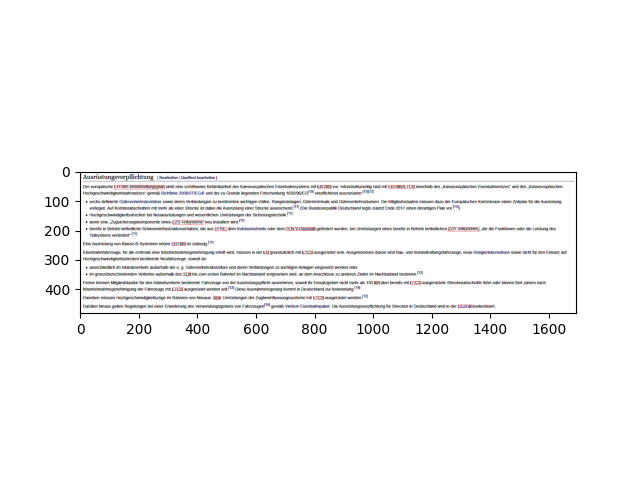
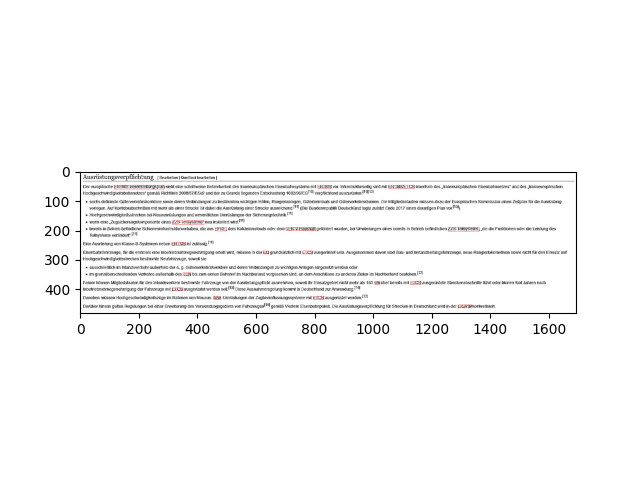
changed pre-processing to cvs; added binarization

diff --git a/src/PreProcessing.py b/src/PreProcessing.py
@@ -1,19 +1,14 @@
-from PIL import Image, ImageEnhance
+import cv2
 
 def enhance(image_path, edited_image_path):
 
     # Open the image and save it to the variable
-    img = Image.open(image_path)
-
-    # Increases the sharpness and contrast of the image to help the text recognition
-    enhancer_sharp = ImageEnhance.Sharpness(img)
-    enhancer_contrast = ImageEnhance.Contrast(img)
-
-    img_edit = enhancer_sharp.enhance(25.0)
-    img_edit = enhancer_contrast.enhance(3.0)
+    img = cv2.imread(image_path)
+    img_grey = cv2.cvtColor(img, cv2.COLOR_BGR2GRAY)
+    img_edit = cv2.adaptiveThreshold(img_grey,255,cv2.ADAPTIVE_THRESH_GAUSSIAN_C,cv2.THRESH_BINARY,11,2)   
 
     # Saves the edited image to the given path
-    img_edit.save(edited_image_path)
+    cv2.imwrite(edited_image_path, img_edit)
 
     # Returns edited image
     return img_edit
